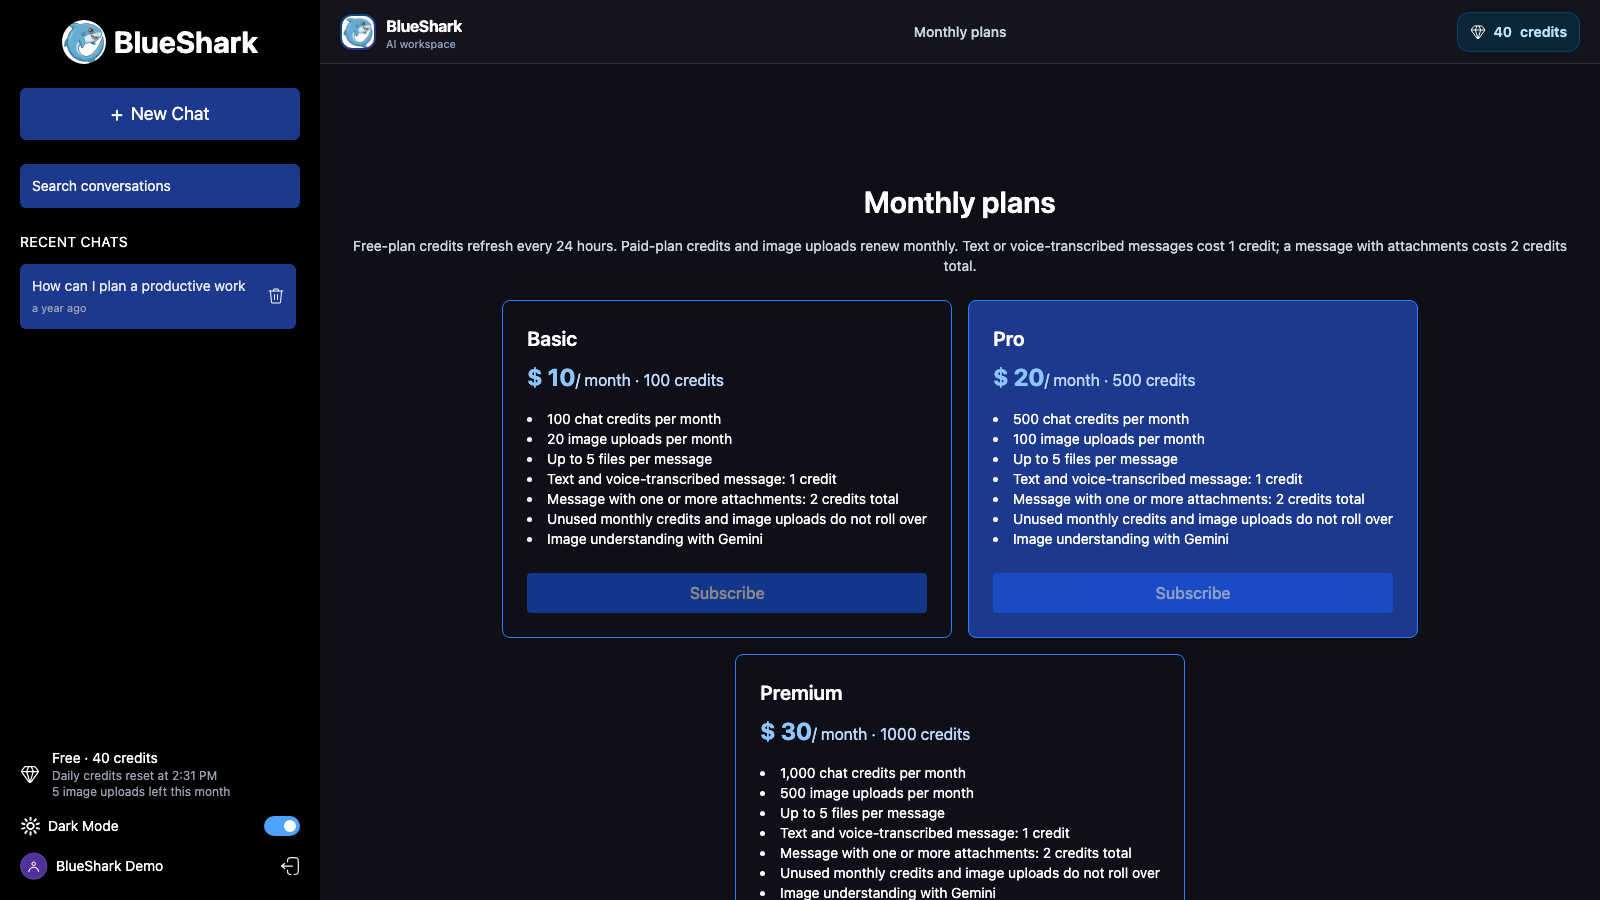
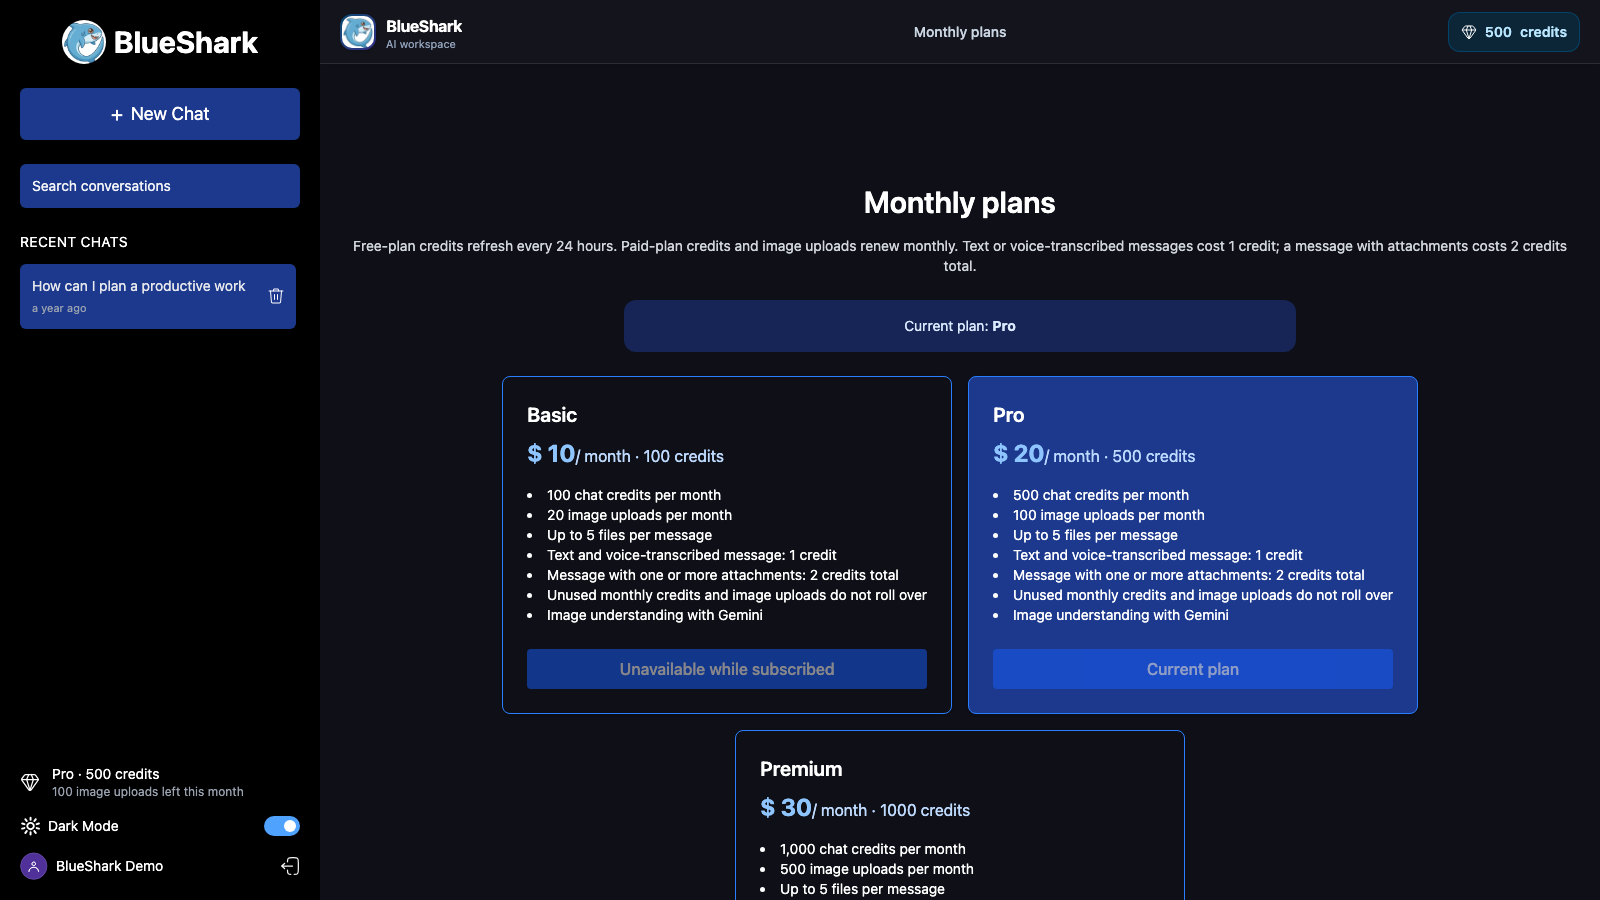
Hide chat title and refresh plan screenshots

Changed region(s): [[0.3125, 0.3111, 0.9062, 1.0], [0.0, 0.84, 0.1562, 0.9022], [0.9062, 0.0, 0.9375, 0.0622]]

diff --git a/frontend/src/App.jsx b/frontend/src/App.jsx
@@ -15,7 +15,7 @@ const ChatBox = lazy(() => import("./components/ChatBox"))
 const Credits = lazy(() => import("./pages/Credits"))
 
 function App() {
-  const { user, loadingUser, selectedChat, navigate } = useAppContext()
+  const { user, loadingUser, navigate } = useAppContext()
   const [isMenuOpen, setIsMenuOpen] = useState(false)
   const { pathname } = useLocation()
   if (loadingUser) return <Loading />
@@ -60,12 +60,10 @@ function App() {
                   </p>
                 </div>
               </div>
-              {(pathname === "/credits" ||
-                (selectedChat?.name &&
-                  selectedChat.name.toLowerCase() !== "new chat")) && (
+              {pathname === "/credits" && (
                 <div className="pointer-events-none absolute left-1/2 hidden max-w-[35%] -translate-x-1/2 md:block">
                   <p className="truncate text-sm font-medium text-slate-600 dark:text-slate-300">
-                    {pathname === "/credits" ? "Monthly plans" : selectedChat.name}
+                    Monthly plans
                   </p>
                 </div>
               )}

diff --git a/frontend/src/components/AIProviderSelect.jsx b/frontend/src/components/AIProviderSelect.jsx
@@ -14,7 +14,7 @@ function AIProviderSelect({ value, onChange }) {
     <select
       aria-label="AI provider"
       title="Choose AI provider"
-      className="h-10 shrink-0 pl-2 pr-1 text-sm outline-none"
+      className="text-sm pl-2 pr-1 outline-none"
       onChange={handleChange}
       value={value}
     >
